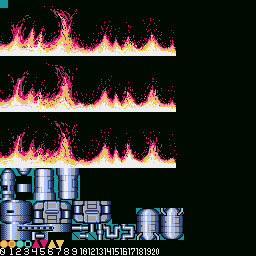
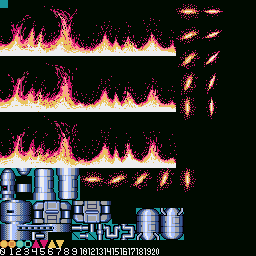
炎ステージプロミネンス

diff --git a/source/enemyOthers.py b/source/enemyOthers.py
@@ -230,3 +230,265 @@ class Fire3(EnemyBase):
     def draw(self):
         sx = 0 if self.cnt & 2 == 0 else 24
         pyxel.blt(self.x -11.5, self.y -11.5, self.imageSourceIndex, self.imageSourceX +sx, self.imageSourceY, 24, 24, 3)
+
+
+class Prominence2Appear(EnemyBase):
+    table = [
+        [0, 0, 70],
+        [5, 1, 70],
+        [6, 2, 70],
+        [7, 3, 70],
+        [8, 4, 70],
+        [9, 5, 70],
+        [9, 4, 70],
+        [8, 3, 70],
+        [7, 2, 70],
+        [6, 1, 70],
+        [5, 0, 70],
+    ]
+    def __init__(self, t):
+        super(__class__, self).__init__()
+        self.x = t[2]
+        self.y = t[3]
+        self.left = -3.5
+        self.top = -3.5
+        self.right = 3.5
+        self.bottom = 3.5
+        self.layer = gcommon.C_LAYER_SKY
+        self.ground = True
+        self.hitCheck = True
+        self.shotHitCheck = False
+        self.enemyShotCollision = False
+        self.rad = -math.pi/4
+        self.radius = 70.0
+        self.tableIndex = 0
+        self.prevCnt = 0
+
+    def update(self):
+        while True:
+            t = __class__.table[self.tableIndex]
+            if t[0] == (self.cnt -self.prevCnt):
+                ObjMgr.addObj(Prominence1(self.x, self.y, t[2], t[1]))
+                self.tableIndex += 1
+                if self.tableIndex >= len(__class__.table):
+                    self.remove()
+                    return
+                self.prevCnt = self.cnt
+            else:
+                return
+
+    def draw(self):
+        pass
+
+class Prominence1Appear(EnemyBase):
+    def __init__(self, t):
+        super(__class__, self).__init__()
+        self.x = t[2]
+        self.y = t[3]
+        self.direction = t[4]        # 1:反時計回り -1:時計回り
+        self.position = t[5]         # 1:下  -1:上
+        self.left = -3.5
+        self.top = -3.5
+        self.right = 3.5
+        self.bottom = 3.5
+        self.layer = gcommon.C_LAYER_SKY
+        self.ground = True
+        self.hitCheck = True
+        self.shotHitCheck = False
+        self.enemyShotCollision = False
+        self.rad = -math.pi/4
+        self.radius = 100.0
+        self.tableIndex = 0
+        self.pCount = 1
+
+    def update(self):
+        if self.cnt % 5 == 0:
+            if self.state == 0:
+                self.addProminence()
+                self.pCount += 1
+                if self.pCount > 10:
+                    self.state = 1
+            else:
+                self.addProminence()
+                self.pCount -= 1
+                if self.pCount < 1:
+                    self.remove()
+        
+    def addProminence(self):
+        s = 1.0
+        for i in range(self.pCount):
+            #ObjMgr.addObj(Prominence1(self.x, self.y, self.radius + (i -self.pCount/2)*3 , 1))
+            if i > (self.pCount>>1):
+                ObjMgr.addObj(Prominence2(self.x, self.y, self.radius + s * self.pCount *(self.pCount -i)/self.pCount, 1, self.direction, self.position))
+            else:
+                ObjMgr.addObj(Prominence2(self.x, self.y, self.radius + s * self.pCount *(self.pCount -i)/self.pCount, 0, self.direction, self.position))
+            s = -1.0 if s==1.0 else 1
+
+
+    def addProminenceTest(self):
+        if self.pCount < 3:
+            s = 1
+            for i in range(self.pCount):
+                #ObjMgr.addObj(Prominence1(self.x, self.y, self.radius + (i -self.pCount/2)*3 , 1))
+                if i == 2:
+                    ObjMgr.addObj(Prominence2(self.x, self.y, self.radius + s * 3 *(self.pCount -i)/self.pCount, 1))
+                else:
+                    ObjMgr.addObj(Prominence2(self.x, self.y, self.radius + s * 3 *(self.pCount -i)/self.pCount, 0))
+                s = -1 if s==1 else 1
+        elif self.pCount < 5:
+            s = 1
+            for i in range(self.pCount):
+                #ObjMgr.addObj(Prominence1(self.x, self.y, self.radius + (i -self.pCount/2)*3 , 1))
+                if i >= 3:
+                    ObjMgr.addObj(Prominence2(self.x, self.y, self.radius + s * 5 *(self.pCount -i)/self.pCount, 1))
+                else:
+                    ObjMgr.addObj(Prominence2(self.x, self.y, self.radius + s * 5 *(self.pCount -i)/self.pCount, 0))
+                s = -1 if s==1 else 1
+        elif self.pCount < 6:
+            s = 1
+            for i in range(int(self.pCount)):
+                #ObjMgr.addObj(Prominence1(self.x, self.y, self.radius + (i -self.pCount/3)*4 , 3))
+                if i >= 3:
+                    ObjMgr.addObj(Prominence2(self.x, self.y, self.radius + s * 7 * (self.pCount -i)/self.pCount , 1))
+                else:
+                    ObjMgr.addObj(Prominence2(self.x, self.y, self.radius + s * 7 * (self.pCount -i)/self.pCount , 0))
+                s = -1 if s==1 else 1
+        else:
+            s = 1
+            for i in range(int(self.pCount)):
+                #ObjMgr.addObj(Prominence1(self.x, self.y, self.radius + (i -self.pCount/3)*4 , 3))
+                if i >= 7:
+                    ObjMgr.addObj(Prominence2(self.x, self.y, self.radius + s * 8 * (self.pCount -i)/self.pCount , 1))
+                else:
+                    ObjMgr.addObj(Prominence2(self.x, self.y, self.radius + s * 8 * (self.pCount -i)/self.pCount , 0))
+                s = -1 if s==1 else 1
+
+    def draw(self):
+        pass
+
+
+class Prominence1(EnemyBase):
+    imageTable = [
+        [176, 0, 16],
+        [176, 16, 16],
+        [176, 32, 16],
+        [176, 48, 16],
+        [176, 64, 24],
+        [176, 88, 24]
+    ]
+    drTable = [
+        [1, 1],
+        [1, -1],
+        [-1, 1],
+        [-1, -1]
+    ]
+    # x,y 中心座標
+    def __init__(self, x, y, radius, index):
+        super(__class__, self).__init__()
+        self.x = x
+        self.y = y
+        self.radius = radius
+        self.index = index
+        self.left = -3.5
+        self.top = -3.5
+        self.right = 3.5
+        self.bottom = 3.5
+        self.layer = gcommon.C_LAYER_SKY
+        self.ground = True
+        self.hitCheck = True
+        self.shotHitCheck = False
+        self.enemyShotCollision = False
+        self.rad = -math.pi/4
+
+    def update(self):
+        if self.x + self.radius + 20 < 0:
+            self.remove()
+            return
+        self.rad += math.pi/120
+
+    def draw(self):
+        #gcommon.debugPrint(str(self.x) + " " + str(self.y))
+        t = __class__.imageTable[self.index]
+        dr = __class__.drTable[(self.cnt>>1) & 3]
+        ss = t[2]/4
+        x = self.x + self.radius * math.cos(self.rad) -t[2]/2 + random.randrange(-ss, ss)
+        y = self.y -t[2]/2 - 1.1 * self.radius * math.sin(self.rad) + random.randrange(-ss, ss)
+        pyxel.blt(x, y, 1, t[0], t[1], dr[0] * t[2], dr[1] * t[2], 0)
+
+class Prominence2(EnemyBase):
+    # sx, sy, fx, fy
+    imageTable = [
+        [176, 0, 1, 1], [176, 24, 1, 1], [176, 48, 1, 1], [176, 72, 1, 1],
+        [176, 96, 1, 1], [176, 72, -1, 1], [176, 48, -1, 1], [176, 24, -1, 1],
+        [176, 0, -1, 1], [176, 24, -1, -1], [176, 48, -1, -1], [176, 72, -1, -1],
+        [176, 96, 1, -1], [176, 72, 1, -1], [176, 48, 1, -1], [176, 24, 1, -1]
+    ]
+    # x,y 中心座標
+    def __init__(self, x, y, radius, index, direction, position):
+        super(__class__, self).__init__()
+        self.x = x
+        self.y = y
+        self.radius = radius
+        self.index = index
+        self.direction = direction    # 1:反時計回り  -1:時計回り
+        self.position = position        # 1:下  -1:上
+        self.left = -3.5
+        self.top = -3.5
+        self.right = 3.5
+        self.bottom = 3.5
+        self.layer = gcommon.C_LAYER_SKY
+        self.ground = True
+        self.hitCheck = True
+        self.shotHitCheck = False
+        self.enemyShotCollision = False
+        self.rad = -math.pi/4 * direction      # rad は -pi/4～pi*3/4
+
+    def update(self):
+        if self.x + self.radius + 20 < 0:
+            self.remove()
+            return
+        self.rad += math.pi/120 * self.direction
+        if self.direction == 1 and self.rad >= math.pi * 2:
+            self.rad -= math.pi * 2
+        elif self.direction == -1 and self.rad <= 0.0:
+            self.rad += math.pi * 2
+        
+        # 当たり判定
+        x = self.radius * math.cos(self.rad)
+        y = -self.radius * 1.1 * math.sin(self.rad)
+        self.left = x -3.5
+        self.top = y -3.5
+        self.right = x +3.5
+        self.bottom = y +3.5
+
+        if self.cnt % 30 == 0:
+            if self.position == 1:
+                if self.rad >= math.pi*1.875 or self.rad < math.pi/8:
+                    #gcommon.DebugPrint("Splash")
+                    enemy.Splash.appendParam(self.x +self.radius * math.cos(self.rad), self.y, gcommon.C_LAYER_SKY, self.rad - math.pi*0.5, math.pi*0.2,
+                        speed=5, lifeMin=50, lifeMax=100, count=5, ground=True, color=10)
+                elif self.rad >= math.pi*0.875 and self.rad < math.pi*1.125:
+                    enemy.Splash.appendParam(self.x +self.radius * math.cos(self.rad), self.y, gcommon.C_LAYER_SKY, self.rad + math.pi*0.5, math.pi*0.2,
+                        speed=5, lifeMin=50, lifeMax=100, count=5, ground=True, color=10)
+            else:
+                if self.rad >= math.pi*1.875 or self.rad < math.pi/8:
+                    #gcommon.DebugPrint("Splash")
+                    enemy.Splash.appendParam(self.x +self.radius * math.cos(self.rad), self.y, gcommon.C_LAYER_SKY, self.rad + math.pi*0.5, math.pi*0.2,
+                        speed=5, lifeMin=50, lifeMax=100, count=5, ground=True, color=10)
+                elif self.rad >= math.pi*0.875 and self.rad < math.pi*1.125:
+                    enemy.Splash.appendParam(self.x +self.radius * math.cos(self.rad), self.y, gcommon.C_LAYER_SKY, self.rad - math.pi*0.5, math.pi*0.2,
+                        speed=5, lifeMin=50, lifeMax=100, count=5, ground=True, color=10)
+
+    def draw(self):
+        #gcommon.debugPrint(str(self.x) + " " + str(self.y))
+        deg = math.degrees(self.rad + math.pi/2)
+        #gcommon.debugPrint("r =" + str(r))
+        t = __class__.imageTable[int(gcommon.degNormalize(deg +360/32) /(360/16))]
+        x = self.x + self.radius * math.cos(self.rad)  + random.randrange(-2, 2)
+        y = self.y - 1.1 * self.radius * math.sin(self.rad) + random.randrange(-2, 2)
+        if self.index == 1:
+            pyxel.pal(8, 9)
+            pyxel.pal(9, 10)
+            pyxel.pal(10, 7)
+        pyxel.blt(x -11.5, y -11.5, 1, t[0], t[1], 24 * t[2], 24 * t[3], 0)
+        pyxel.pal()

diff --git a/source/story.py b/source/story.py
@@ -650,34 +650,42 @@ class Story:
 			[3520, enemyFighter.FireBird1, 256, 80],
 			[3720, enemyFighter.FireBird1, 256, 40],
 			[3740, enemyFighter.FireBird1, 256, 80],
-			[3740, enemyCreature.FireWorm1, 300, 230, 225,
-				[
-					[90, CountMover.MOVE, -0.7, -0.7],
-					[90, 8, 225, 1.0, 1.0],
-					[400, CountMover.MOVE, 0.7, -0.7],
-				],
-				[
-					[90, 0],
-					[90, 1],
-					[0, 100]
-				]
-			],
+			[3760, enemyOthers.Prominence1Appear, 256, 200, 1, 1],
+			# [3740, enemyCreature.FireWorm1, 300, 230, 225,
+			# 	[
+			# 		[90, CountMover.MOVE, -0.7, -0.7],
+			# 		[90, 8, 225, 1.0, 1.0],
+			# 		[400, CountMover.MOVE, 0.7, -0.7],
+			# 	],
+			# 	[
+			# 		[90, 0],
+			# 		[90, 1],
+			# 		[0, 100]
+			# 	]
+			# ],
+			[3760, enemyFighter.FireBird1, 256, 80],
+			[3780, enemyFighter.FireBird1, 256, 60],
+			[3800, enemyFighter.FireBird1, 256, 120],
+
 			[3800, enemyFighter.FireBird1, 256, 40],
 			[3820, enemyFighter.FireBird1, 256, 80],
+			[3880, enemyOthers.Prominence1Appear, 256, 0, -1, -1],
+			[4000, enemyOthers.Prominence1Appear, 380, 200, -1, 1],
 			[4200, enemyFighter.FireBird1, 256, 80],
 			[4220, enemyFighter.FireBird1, 256, 60],
-			[4250, enemyCreature.FireWorm1, 300, -30, 135,
-				[
-					[90, CountMover.MOVE, -0.7, 0.7],
-					[90, 8, 135, -1.0, 1.0],
-					[400, CountMover.MOVE, 0.7, 0.7],
-				],
-				[
-					[90, 0],
-					[90, 1],
-					[0, 100]
-				]
-			],
+			[4400, enemyOthers.Prominence1Appear, 256, 0, -1, -1],
+			# [4250, enemyCreature.FireWorm1, 300, -30, 135,
+			# 	[
+			# 		[90, CountMover.MOVE, -0.7, 0.7],
+			# 		[90, 8, 135, -1.0, 1.0],
+			# 		[400, CountMover.MOVE, 0.7, 0.7],
+			# 	],
+			# 	[
+			# 		[90, 0],
+			# 		[90, 1],
+			# 		[0, 100]
+			# 	]
+			# ],
 			[4800, enemyFighter.FireBird1, 256, 40],
 			[4820, enemyFighter.FireBird1, 256, 80],
 			[4900, enemyFighter.FireBird1, 256, 100],

diff --git a/source/gcommon.py b/source/gcommon.py
@@ -407,6 +407,20 @@ def radNormalize(rad):
 		r += math.pi * 2
 	return r
 
+# radを 0 ～2piの間に正規化する
+def radNormalizeX(rad):
+	r = math.fmod(rad, math.pi * 2)
+	if r < 0.0:
+		r += math.pi * 2
+	return r
+
+def degNormalize(deg):
+	d = int(deg) % 360
+	if d < 0:
+		return 360 -d
+	else:
+		return d
+
 # 指定した座標・ラジアンから、自機方向にomega回転した値を返す
 def getRadToShip(x, y, rad, omega):
 	tempDr = get_atan_rad_to_ship(x, y)

diff --git a/source/enemyCreature.py b/source/enemyCreature.py
@@ -399,7 +399,7 @@ class FireWorm1(EnemyBase):
             cy = c[1] -self.y
             self.collisionRects.append(gcommon.Rect.create(cx -12, cy-12, cx+12, cy+12))
 
-            # 
+            # 火の粉
             if c[1] > 190 and c[1] < 193:
                 x = c[0] + random.randrange(-20, 20)
                 enemy.Splash.appendParam(x, c[1], gcommon.C_LAYER_SKY, math.pi*1.5, math.pi*0.2,
